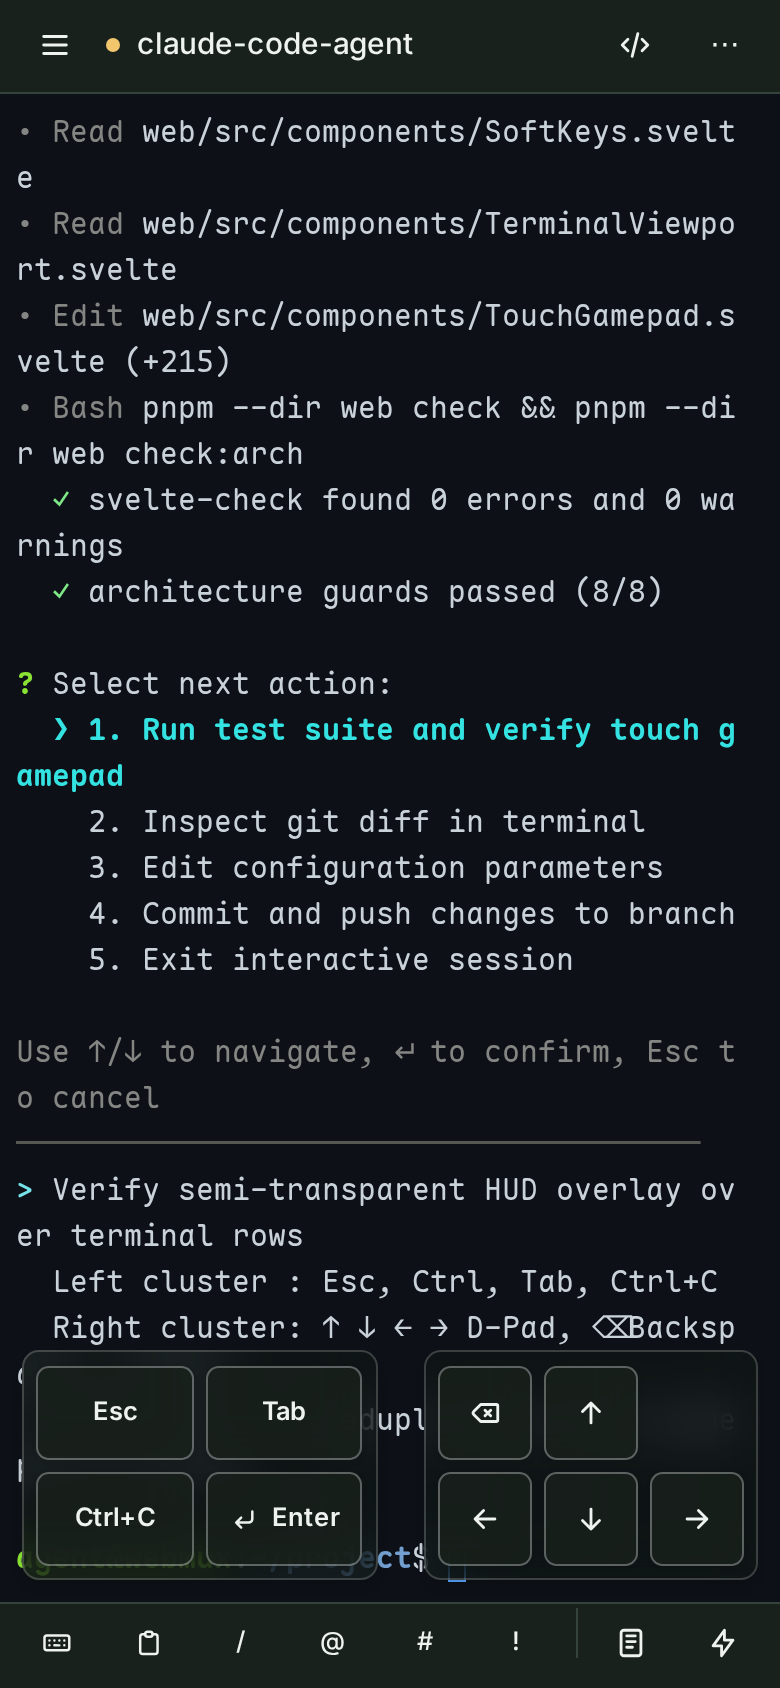
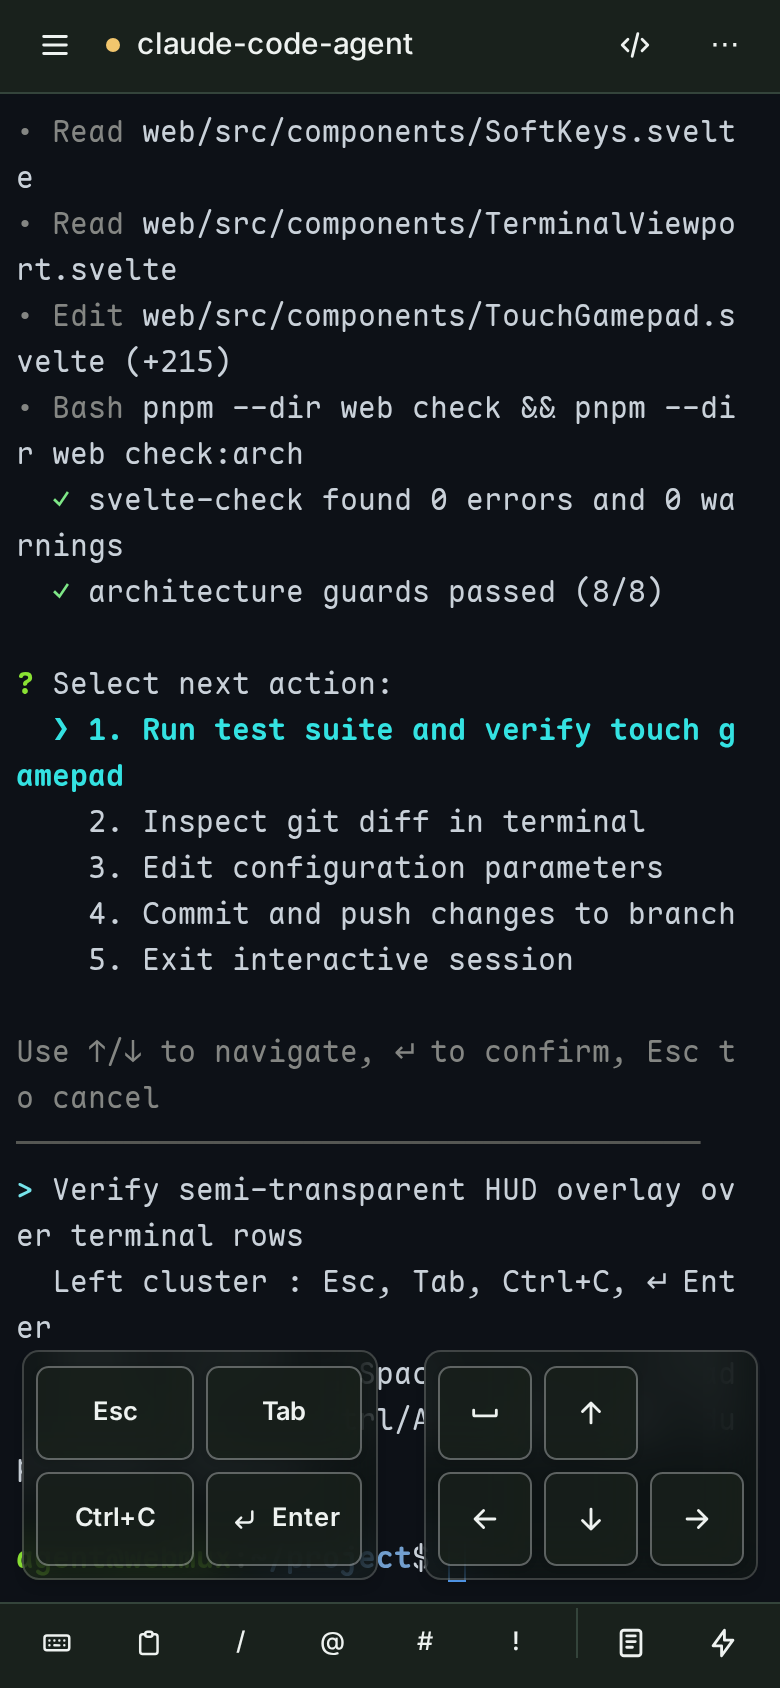
feat(web): replace floating backspace with space key for TUI multi-select

diff --git a/web/src/components/TouchGamepad.svelte b/web/src/components/TouchGamepad.svelte
@@ -4,8 +4,8 @@
   import IconArrowLeft from "~icons/tabler/arrow-left";
   import IconArrowRight from "~icons/tabler/arrow-right";
   import IconArrowUp from "~icons/tabler/arrow-up";
-  import IconBackspace from "~icons/tabler/backspace";
   import IconCornerDownLeft from "~icons/tabler/corner-down-left";
+  import IconSpace from "~icons/tabler/space";
   import { Button } from "$lib/components/ui/button";
 
   let {
@@ -34,7 +34,6 @@
   let repeatTimer: ReturnType<typeof setInterval> | undefined;
   let activePointerId = $state<number | null>(null);
   let activeDirection = $state<ArrowDirection | null>(null);
-  let activeBackspace = $state(false);
   let originX = 0;
   let originY = 0;
   let pointerHandled = false;
@@ -46,7 +45,6 @@
     repeatTimer = undefined;
     activePointerId = null;
     activeDirection = null;
-    activeBackspace = false;
   }
 
   function startRepeat(input: string) {
@@ -92,7 +90,6 @@
     pointerHandled = true;
     activePointerId = event.pointerId;
     activeDirection = direction;
-    activeBackspace = false;
     originX = event.clientX;
     originY = event.clientY;
     capturePointer(event.currentTarget, event.pointerId);
@@ -128,19 +125,6 @@
     event.stopPropagation();
     releasePointer(event.currentTarget, event.pointerId);
     stopRepeat();
-  }
-
-  function startBackspace(event: PointerEvent) {
-    if (event.button !== 0 && event.pointerType === "mouse") return;
-    oninteract?.();
-    event.preventDefault();
-    event.stopPropagation();
-    pointerHandled = true;
-    activePointerId = event.pointerId;
-    activeBackspace = true;
-    activeDirection = null;
-    capturePointer(event.currentTarget, event.pointerId);
-    startRepeat("\x7f");
   }
 
   function clickKey(input: string, event: MouseEvent) {
@@ -232,18 +216,17 @@
         variant="hud"
         size="icon-sm"
         class="w-full"
-        data-gamepad-key="backspace"
-        aria-label="退格"
-        title="退格（长按连发）"
-        aria-pressed={activeBackspace}
+        data-gamepad-key="space"
+        aria-label="空格"
+        title="空格（切换选择）"
         onmousedown={keepFocus}
-        onpointerdown={startBackspace}
-        onpointerup={endPointer}
-        onpointercancel={endPointer}
-        onlostpointercapture={stopRepeat}
-        onclick={(event) => clickKey("\x7f", event)}
+        onpointerdown={() => oninteract?.()}
+        onclick={(event) => {
+          event.stopPropagation();
+          send(" ");
+        }}
       >
-        <IconBackspace aria-hidden="true" />
+        <IconSpace aria-hidden="true" />
       </Button>
     </div>
     <div class="col-start-2 row-start-1">

diff --git a/web/test/browser/TerminalViewport.test.ts b/web/test/browser/TerminalViewport.test.ts
@@ -56,6 +56,8 @@ test("touch gamepad renders only when enabled and controlling, supports slide-to
   expect(send).toHaveBeenCalledWith("\x03");
   key("enter").click();
   expect(send).toHaveBeenCalledWith("\r");
+  key("space").click();
+  expect(send).toHaveBeenCalledWith(" ");
 
   // Touching/scrolling the terminal host fades the gamepad into semi-transparent state.
   const host = document.querySelector<HTMLElement>(".terminal-host")!;
@@ -110,22 +112,23 @@ test("touch gamepad renders only when enabled and controlling, supports slide-to
     }),
   );
 
-  // Backspace hold auto-repeat.
+  // Hold auto-repeat on the D-Pad.
   send.mockClear();
-  const backspace = key("backspace");
-  backspace.dispatchEvent(
+  up.dispatchEvent(
     new PointerEvent("pointerdown", {
       bubbles: true,
       cancelable: true,
       pointerId: 2,
       button: 0,
+      clientX: 100,
+      clientY: 100,
     }),
   );
   expect(send).toHaveBeenCalledTimes(1);
-  expect(send).toHaveBeenLastCalledWith("\x7f");
+  expect(send).toHaveBeenLastCalledWith("\x1b[A");
   await new Promise((resolve) => setTimeout(resolve, 480));
   expect(send.mock.calls.length).toBeGreaterThanOrEqual(2);
-  backspace.dispatchEvent(
+  up.dispatchEvent(
     new PointerEvent("pointerup", {
       bubbles: true,
       cancelable: true,

diff --git a/web/test/e2e/softkeys.spec.ts b/web/test/e2e/softkeys.spec.ts
@@ -511,10 +511,10 @@ test("touch gamepad mode toggles in menu, shows only when controlling, deduplica
     await otherContext.close();
   }
 
-  // Verify floating keys send input (including Enter and Backspace).
+  // Verify floating keys send input (including Enter and Space).
   const received = await recordInput(page, workDir);
   await gamepad.getByRole("button", { name: "Esc", exact: true }).tap();
-  await gamepad.getByRole("button", { name: "退格", exact: true }).tap();
+  await gamepad.getByRole("button", { name: "空格", exact: true }).tap();
   await gamepad.getByRole("button", { name: "回车", exact: true }).tap();
-  await expect.poll(() => readFile(received, "utf8")).toBe("\x1b\x7f\r");
+  await expect.poll(() => readFile(received, "utf8")).toBe("\x1b \r");
 });

diff --git a/openspec/changes/add-terminal-touch-gamepad/specs/terminal-touch-gamepad/spec.md b/openspec/changes/add-terminal-touch-gamepad/specs/terminal-touch-gamepad/spec.md
@@ -47,20 +47,20 @@
    - 按键点击或滑动时 SHALL 保持当前输入焦点（不意外收起已打开的软键盘，也不在未打开键盘时被动拉起系统软键盘）。
 2. **按键集合与输入映射**：
    - **左侧高频功能与确认键簇（2×2）**：提供 `Esc`（`\x1b`）、`Tab`（`\t`）、`Ctrl+C`（`\x03`）与回车键 `↵ Enter`（`\r`）；
-   - **右侧方向盘（D-Pad / 摇杆）与左上角退格键**：在左上角提供退格键 `⌫`（`\x7f`），并配十字方向键 `↑`（`\x1b[A`）、`↓`（`\x1b[B`）、`←`（`\x1b[D`）、`→`（`\x1b[C`）；
-   - 当底部栏 `Ctrl`、`Alt` 或 `Shift` 修饰键处于激活状态时，点击方向键或功能键 SHALL 遵循 `modifiedInput` 规则发送带修饰的序列并释放一次性修饰键；草稿模式开启时，方向键、退格键与回车键 SHALL 作用于草稿框光标与内容，按下 `Esc` 或 `Ctrl+C` 则按现有规则提示先退出草稿模式。
+   - **右侧方向盘（D-Pad / 摇杆）与左上角空格键**：在左上角提供空格键 `␣`（`" "`，用于在多选列表中切换勾选），并配十字方向键 `↑`（`\x1b[A`）、`↓`（`\x1b[B`）、`←`（`\x1b[D`）、`→`（`\x1b[C`）；
+   - 当底部栏 `Ctrl`、`Alt` 或 `Shift` 修饰键处于激活状态时，点击方向键或功能键 SHALL 遵循 `modifiedInput` 规则发送带修饰的序列并释放一次性修饰键；草稿模式开启时，方向键、空格键与回车键 SHALL 作用于草稿框光标与内容，按下 `Esc` 或 `Ctrl+C` 则按现有规则提示先退出草稿模式。
 3. **摇杆滑动与长按连发**：
-   - 用户手指按住方向盘区域向 `↑`、`↓`、`←`、`→` 方向滑动或按住方向键/退格键 `⌫` 不放时，系统 SHALL 立即触发首次按键，并在按住期间按固定间隔连续发送对应按键序列，松手或取消指针时立即停止。
+   - 用户手指按住方向盘区域向 `↑`、`↓`、`←`、`→` 方向滑动或按住方向键不放时，系统 SHALL 立即触发首次按键，并在按住期间按固定间隔连续发送对应按键序列，松手或取消指针时立即停止。
 
 #### Scenario: 点按与滑动方向盘控制 Agent 菜单
 
 - **WHEN** 用户在浮动方向盘上点按 `↓` 或按住方向盘向下滑动
 - **THEN** 终端收到 `\x1b[B`（按住时连续收到），TUI 菜单高亮项向下移动，且不会拉起系统软键盘
 
-#### Scenario: 使用浮动 Ctrl 与退格键
+#### Scenario: 使用浮动空格键与回车键完成多选
 
-- **WHEN** 用户先点按浮动 `Ctrl` 键（按钮呈按下激活态），或长按浮动 `⌫` 键
-- **THEN** `modifiers.ctrl` 变为 `true`，随后输入字母会合成对应控制字符并复位 `Ctrl`；长按 `⌫` 键则连续向终端发送 `\x7f`
+- **WHEN** 用户在 TUI 多选菜单中点按浮动空格键，再点按浮动回车键
+- **THEN** 终端依次收到 `" "` 与 `"\r"`，完成当前项勾选切换与提交确认
 
 ### Requirement: 未触碰浮动键时保持终端触摸滚动
 
@@ -92,7 +92,7 @@
 #### Scenario: 开启浮动摇杆模式时底部栏精简
 
 - **WHEN** 已接管控制的终端开启“软键盘摇杆模式”
-- **THEN** 浮动层显示 `Esc`、`Tab`、`Ctrl+C`、`Enter`、`⌫`、`↑`、`↓`、`←`、`→`，同时底部 `.soft-row` 中不再出现 `Esc`、`Tab`、`↵`、`↑`、`↓`、`←`、`→`、`Ctrl+C`，而 `Ctrl` 仍保留在底部滑动栏中
+- **THEN** 浮动层显示 `Esc`、`Tab`、`Ctrl+C`、`Enter`、空格、`↑`、`↓`、`←`、`→`，同时底部 `.soft-row` 中不再出现 `Esc`、`Tab`、`↵`、`↑`、`↓`、`←`、`→`、`Ctrl+C`，而 `Ctrl` 仍保留在底部滑动栏中
 
 #### Scenario: 失去控制权或关闭模式时底部栏恢复
 

diff --git a/openspec/changes/add-terminal-touch-gamepad/tasks.md b/openspec/changes/add-terminal-touch-gamepad/tasks.md
@@ -5,9 +5,9 @@
 
 ## 2. 半透明浮动摇杆组件与底部软键栏去重
 
-- [x] 2.1 在 `web/src/lib/components/ui/button/button.svelte` 中扩展半透明浮层样式（并在 `docs/frontend-architecture.md` 登记），实现 `web/src/components/TouchGamepad.svelte`（左侧 `Esc`、`Ctrl`、`Tab`、`Ctrl+C` 功能键簇，右侧十字方向摇杆 `↑` `↓` `←` `→` 及 `⌫`、`↵`，支持滑动方向切换与长按连发）
-- [x] 2.2 更新 `web/src/components/TerminalViewport.svelte`，仅在软键盘摇杆模式开启且当前客户端已接管控制（`t.controlling === true`）、会话未退出且终端视图可见时渲染 `TouchGamepad.svelte`，并保证未命中按钮区域完全穿透以维持终端触摸滚动
-- [x] 2.3 更新 `web/src/components/SoftKeys.svelte`，在底部软键栏中加入回车键 `↵`（`\r`），并在浮动摇杆激活显示时从底部 `.soft-row` 动态移除重复的 `Esc`、`Tab`、`↵`、`Ctrl`、`↑`、`↓`、`←`、`→`、`Ctrl+C` 按键
+- [x] 2.1 在 `web/src/lib/components/ui/button/button.svelte` 中扩展半透明浮层样式（并在 `docs/frontend-architecture.md` 登记），实现 `web/src/components/TouchGamepad.svelte`（左侧 `Esc`、`Tab`、`Ctrl+C`、`Enter` 功能键簇，右侧十字方向摇杆 `↑` `↓` `←` `→` 及左上角空格键，支持滑动方向切换与长按连发）
+- [x] 2.2 更新 `web/src/components/TerminalViewport.svelte`，仅在软键盘摇杆模式开启且当前客户端已接管控制（`t.controlling === true`）、会话未退出且终端视图可见时渲染 `TouchGamepad.svelte`，在触摸或滑动终端时自动变为半透明，并保证未命中按钮区域完全穿透以维持终端触摸滚动
+- [x] 2.3 更新 `web/src/components/SoftKeys.svelte`，在底部软键栏中加入回车键 `↵`（`\r`），并在浮动摇杆激活显示时从底部 `.soft-row` 动态移除重复的 `Esc`、`Tab`、`↵`、`↑`、`↓`、`←`、`→`、`Ctrl+C` 按键（保留 `Ctrl`、`Alt`、`Shift`）
 
 ## 3. 测试、文档与架构守卫校验
 

diff --git a/docs/user-stories/terminal.md b/docs/user-stories/terminal.md
@@ -308,8 +308,8 @@
   - Shift 点按为一次性、长按约 0.5 秒锁定并在再次点按后解除，锁定时按钮显示锁图标；
   - 可与 Tab、方向键、Home/End、翻页组成带 Shift 的序列，点按或锁定后对虚拟与实体键盘的后续输入同样应用 Shift；
   - 符号映射按 US 布局；
-  - 终端菜单“显示”分组提供“软键盘摇杆模式”开关（保存在本机浏览器）：开启且当前客户端已接管控制、连接正常、进程未退出时，在终端底部两侧显示毛玻璃浮动按键（左侧 Esc、Tab、Ctrl+C 与回车 `Enter`，右侧左上角退格与十字方向键），点击或滑动终端时自动变为半透明退让，观察模式或未接管时不显示；
-  - 浮动摇杆的方向键支持按住连发与不抬手滑动切向，退格支持按住连发；摇杆激活时底部软键栏自动隐藏已上浮的重复按键（Esc、Tab、`↵`、方向键、Ctrl+C，保留 Ctrl/Alt/Shift），未触碰浮动键的终端空白区完全穿透，照常单指滑动滚动与长按选词。
+  - 终端菜单“显示”分组提供“软键盘摇杆模式”开关（保存在本机浏览器）：开启且当前客户端已接管控制、连接正常、进程未退出时，在终端底部两侧显示毛玻璃浮动按键（左侧 Esc、Tab、Ctrl+C 与回车 `Enter`，右侧左上角空格与十字方向键），点击或滑动终端时自动变为半透明退让，观察模式或未接管时不显示；
+  - 浮动摇杆的方向键支持按住连发与不抬手滑动切向；摇杆激活时底部软键栏自动隐藏已上浮的重复按键（Esc、Tab、`↵`、方向键、Ctrl+C，保留 Ctrl/Alt/Shift），未触碰浮动键的终端空白区完全穿透，照常单指滑动滚动与长按选词。
 - **US-H02 主动开合键盘**：作为触摸设备使用者，我希望自己决定何时打开虚拟键盘，以便阅读和点选时保留屏幕空间。
   验收要点：
   - 只有点击键盘按钮才主动唤起或收起；

diff --git a/openspec/changes/add-terminal-touch-gamepad/design.md b/openspec/changes/add-terminal-touch-gamepad/design.md
@@ -58,14 +58,14 @@
   - **左侧拇指区（高频控制与确认簇，2×2 毛玻璃胶囊底座）**：
     - 第一行：`Esc`（`\x1b`）、`Tab`（`\t`）；
     - 第二行：`Ctrl+C`（`\x03`）、`↵ Enter`（回车 `\r`，带 `IconCornerDownLeft`）；`Ctrl` 保留在底部横向滑动栏中。
-  - **右侧拇指区（十字方向摇杆 D-Pad + 左上角 `⌫`，毛玻璃胶囊底座）**：
+  - **右侧拇指区（十字方向摇杆 D-Pad + 左上角空格键，毛玻璃胶囊底座）**：
     - 采用紧凑的 3×2 网格布局（使用高辨识度 Tabler 矢量图标）：
-      - 左上：`⌫`（退格 `\x7f`，带 `IconBackspace`），上中：`↑`（`\x1b[A`）；
+      - 左上：`␣`（空格 `" "`，带 `IconSpace`，方便在多选菜单中切换勾选），上中：`↑`（`\x1b[A`）；
       - 下排：`←`（`\x1b[D`）、`↓`（`\x1b[B`）、`→`（`\x1b[C`）。
   - **触摸/滑动终端时自动变半透明退让**：
     - 当用户点击或滑动 `.terminal-host` 时，`TouchGamepad` 立即切换至低不透明度（`opacity-30`），松手后延迟恢复，避免阅读或滚屏时遮挡视线。
     - **摇杆滑动与长按连发机制**：
-      - 用户既可以直接点按/长按单个方向键或 `⌫` 键（按下立即发送一次，按住 350ms 后每 75ms 自动连发）；
+      - 用户既可以直接点按/长按单个方向键（按下立即发送一次，按住 350ms 后每 75ms 自动连发）；
       - 也可以把右侧十字区当作**滑动摇杆**：手指在方向盘任意键按下后（通过 `setPointerCapture` 捕获指针），无需抬起手指，直接向 `↑`、`↓`、`←`、`→` 方向拖动偏移超过阈值（如 14px），即自动切换为目标方向并持续连发对应方向键，带来动作手游虚拟摇杆的顺滑手感。
 
 ### D5 指针隔离与终端滚动穿透

diff --git a/openspec/changes/add-terminal-touch-gamepad/proposal.md b/openspec/changes/add-terminal-touch-gamepad/proposal.md
@@ -17,7 +17,7 @@
 - **半透明浮动方向盘与高频按键布局（新增 `web/src/components/TouchGamepad.svelte`）**：
   - 在 `.terminal-area` 左右下角对称浮动两组带毛玻璃胶囊底座（`backdrop-blur-md`）与高对比描边的半透明控件，且在用户点击或滑动终端区域时自动变为低不透明度（`opacity-30`）退让视野：
     - **左侧高频功能与确认键组（2×2）**：包含 `Esc`、`Tab`、`Ctrl+C` 与回车键 `↵ Enter`（`\r`）；
-    - **右侧方向盘（D-Pad / 滑动摇杆）与退格键**：包含十字方向键 `↑` `↓` `←` `→`（采用清晰 Tabler 图标，支持点按及按住向四向滑动连发）以及位于方向盘左上角的退格键 `⌫`（`\x7f`，支持长按连发）。
+    - **右侧方向盘（D-Pad / 滑动摇杆）与空格键**：包含十字方向键 `↑` `↓` `←` `→`（采用清晰 Tabler 图标，支持点按及按住向四向滑动连发）以及位于方向盘左上角的空格键 `␣`（`" "`，用于 TUI 多选切换选择）。
 - **触摸穿透与终端滚动互不干扰**：
   - 浮动控件容器本身设为 `pointer-events-none`，仅各独立按钮/摇杆响应指针事件并调用 `stopPropagation()` 与 `preventDefault()`（同时阻止兼容层 `mousedown` 夺取或丢失焦点）。
   - 手指未碰到这几个浮动按钮时，在终端任意位置（包括按钮之间的空隙）滑动，照常由底层 `attachTouchGestures` 处理终端滚屏与长按选词，且浮动摇杆在点击/滑动终端期间自动淡化为半透明；手指按在方向盘或浮动键上滑动时，指针被该控件捕获，彻底屏蔽底层终端滚动。
